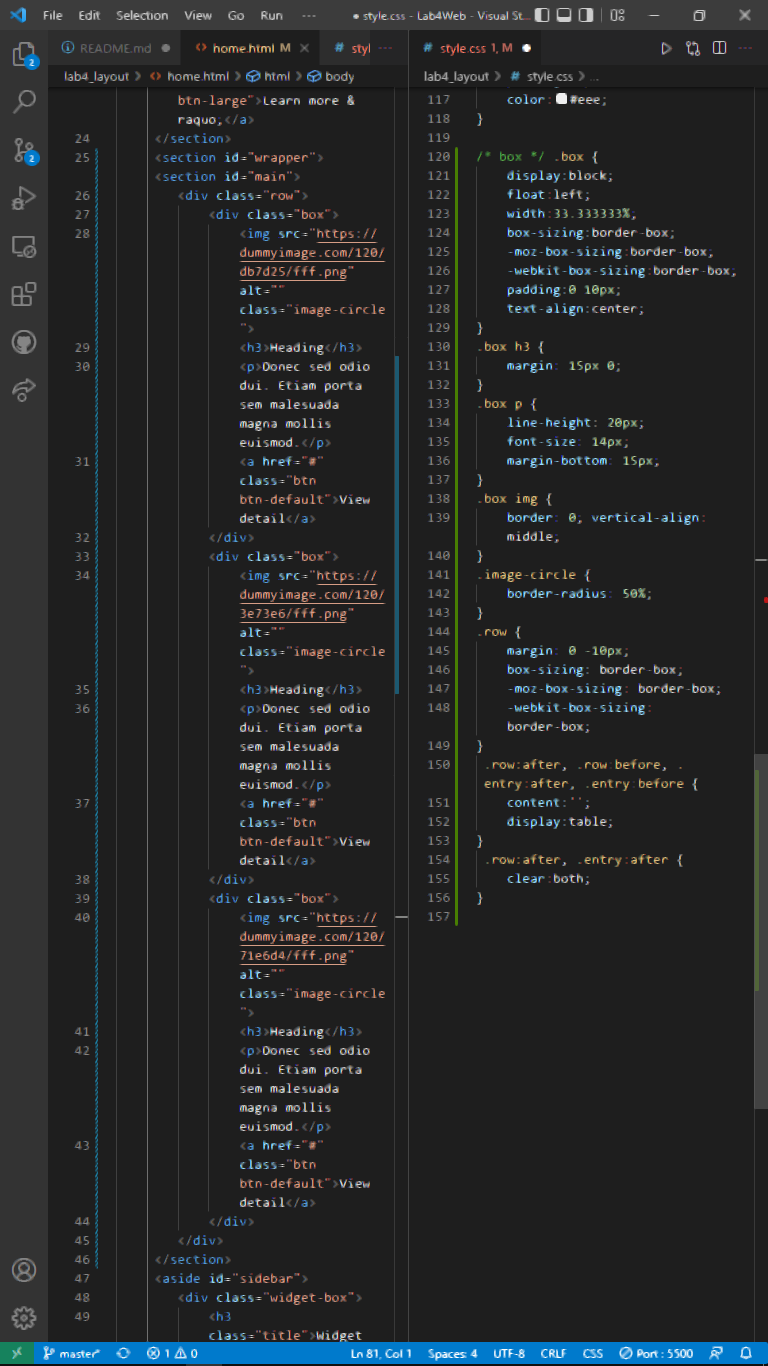
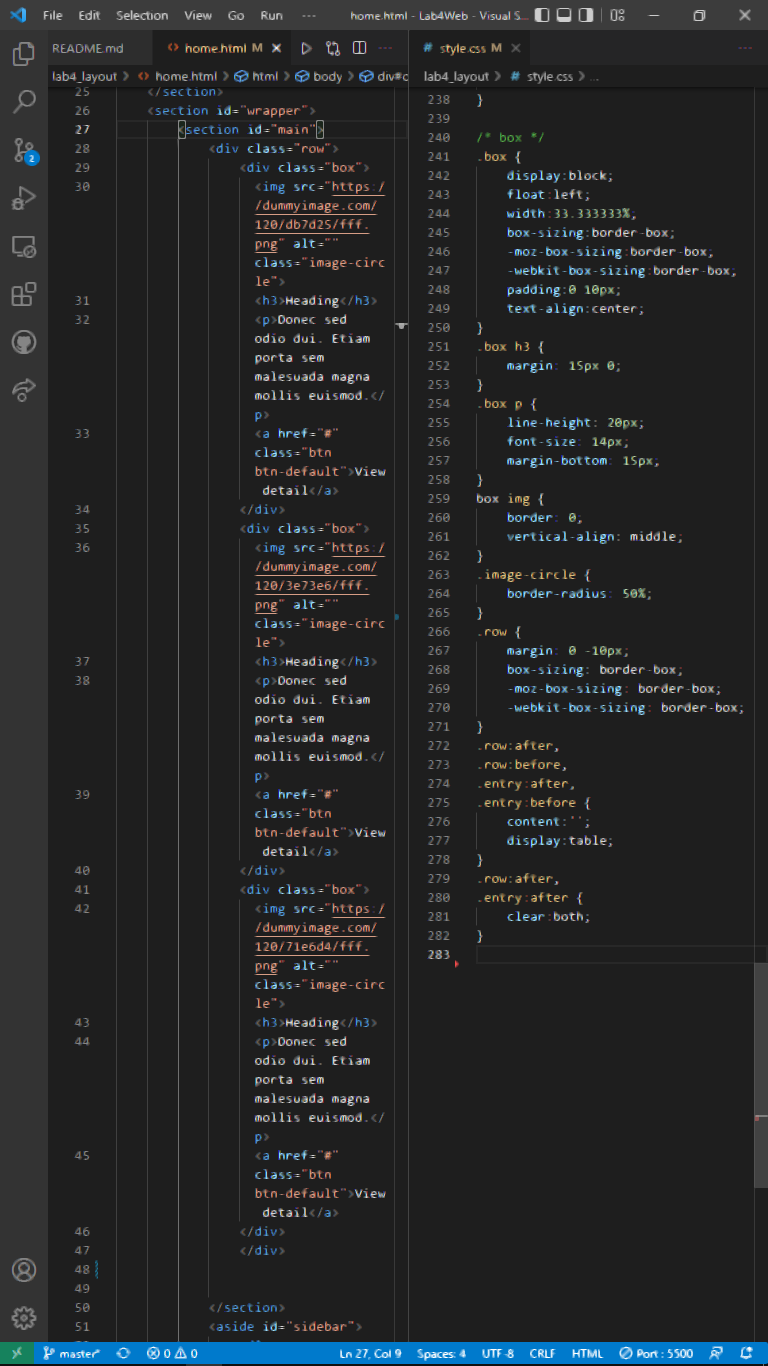
update 5 files

diff --git a/lab4_layout/home.html b/lab4_layout/home.html
@@ -45,18 +45,7 @@
                   <a href="#" class="btn btn-default">View detail</a>
                 </div>
                 </div>
-                <hr class="divider" />
-                <article class="entry">
-                  <h2>First featurette heading.</h2>
-                  <img src="https://dummyimage.com/150/7b8a70/fff.png" alt="">
-                  <p>Lorem ipsum dolor sit amet, consectetur adipiscing elit. Vestibulum lorem elit, iaculis in nisl volutpat, malesuada tincidunt arcu. Proin in leo fringilla, vestibulum mi porta, faucibus felis. Integer pharetra est nunc, nec pretium nunc pretium ac.</p>
-                </article>
-                <hr class="divider" />
-                <article class="entry">
-                  <h2>First featurette heading.</h2>
-                  <img src="https://dummyimage.com/150/7b8a70/fff.png" alt="" class="right-img">
-                  <p>Lorem ipsum dolor sit amet, consectetur adipiscing elit. Vestibulum lorem elit, iaculis in nisl volutpat, malesuada tincidunt arcu. Proin in leo fringilla, vestibulum mi porta, faucibus felis. Integer pharetra est nunc, nec pretium nunc pretium ac.</p>
-              </article>
+
 
 			</section>
 			<aside id="sidebar">

diff --git a/lab4_layout/style.css b/lab4_layout/style.css
@@ -280,36 +280,3 @@ box img {
 .entry:after {
     clear:both;
 }
-
-.divider { border:0;
-border-top:1px solid #eeeeee;
-    margin:40px 0;
-}
-
-/* entry */
-.entry {
-	margin: 15px 0;
-}
-.entry h2 { 
-	margin-bottom: 20px;
-}
-.entry p { 
-	line-height: 25px;
-}
-.entry img { 
-	float: left;
-	border-radius: 5px;
-	margin-right: 15px; 
-}
-.entry .right-img { 
-	float: right;
-}
-
-
-
-
-
-
-
-
-
